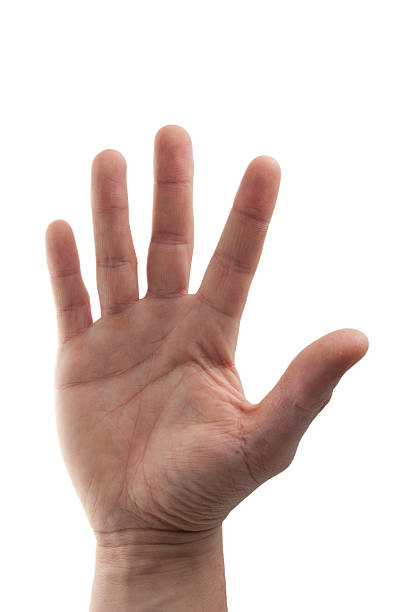
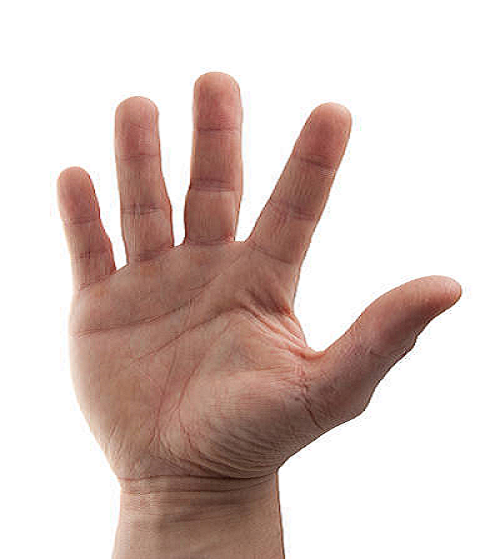
add text to the about section

Changed region(s): [[0.0882, 0.1216, 0.9412, 1.0], [0.3529, 0.7603, 0.3824, 0.7907]]

diff --git a/src/components/AboutSection.vue b/src/components/AboutSection.vue
@@ -6,7 +6,7 @@
       </div>
       <div class="tw-border-t tw-mt-5 tw-border-gray-700 tw-w-80"></div>
     </div>
-    <div class="tw-flex tw-ml-10">
+    <div class="tw-flex tw-justify-between tw-mx-10">
       <div class="tw-text-gray-400 tw-text-lg tw-tracking-wider">
         <div class="tw-pt-12">
           Hi👋! I'am Nasir, a software engineer based in Kaduna, Nigeria.
@@ -16,6 +16,15 @@
           goal is to build complex products that provide performance and <br>
           user experience.
         </div>
+      </div>
+      <div class="tw-flex tw-mx-10 tw-mt-20">
+        <div class="-tw-ml-6 imgBox -tw-mt-6 tw-absolute">
+          <q-img
+            class="tw-w-64 tw-rounded-lg tw-h-72 tw-pb-6"
+            src="~assets/img/hand.png"
+          />
+        </div>
+        <div class="tw-w-64 tw-rounded-lg tw-h-72 tw-border-2 tw-border-primary-text-color tw-mr-10"></div>
       </div>
     </div>
   </div>
@@ -31,3 +40,12 @@ export default defineComponent({
   },
 })
 </script>
+
+<style scoped>
+.imgBox:hover {
+  transform: translate(15px, 15px);
+}
+.imgBox {
+  transition: all ease 900ms;
+}
+</style>

diff --git a/tailwind.config.js b/tailwind.config.js
@@ -6,6 +6,9 @@ module.exports = {
       colors: {
         'primary-bg-color': '#0a192f',
         'primary-text-color': '#64ffda'
+      },
+      spacing: {
+        75: '18.3rem'
       }
     },
   },
